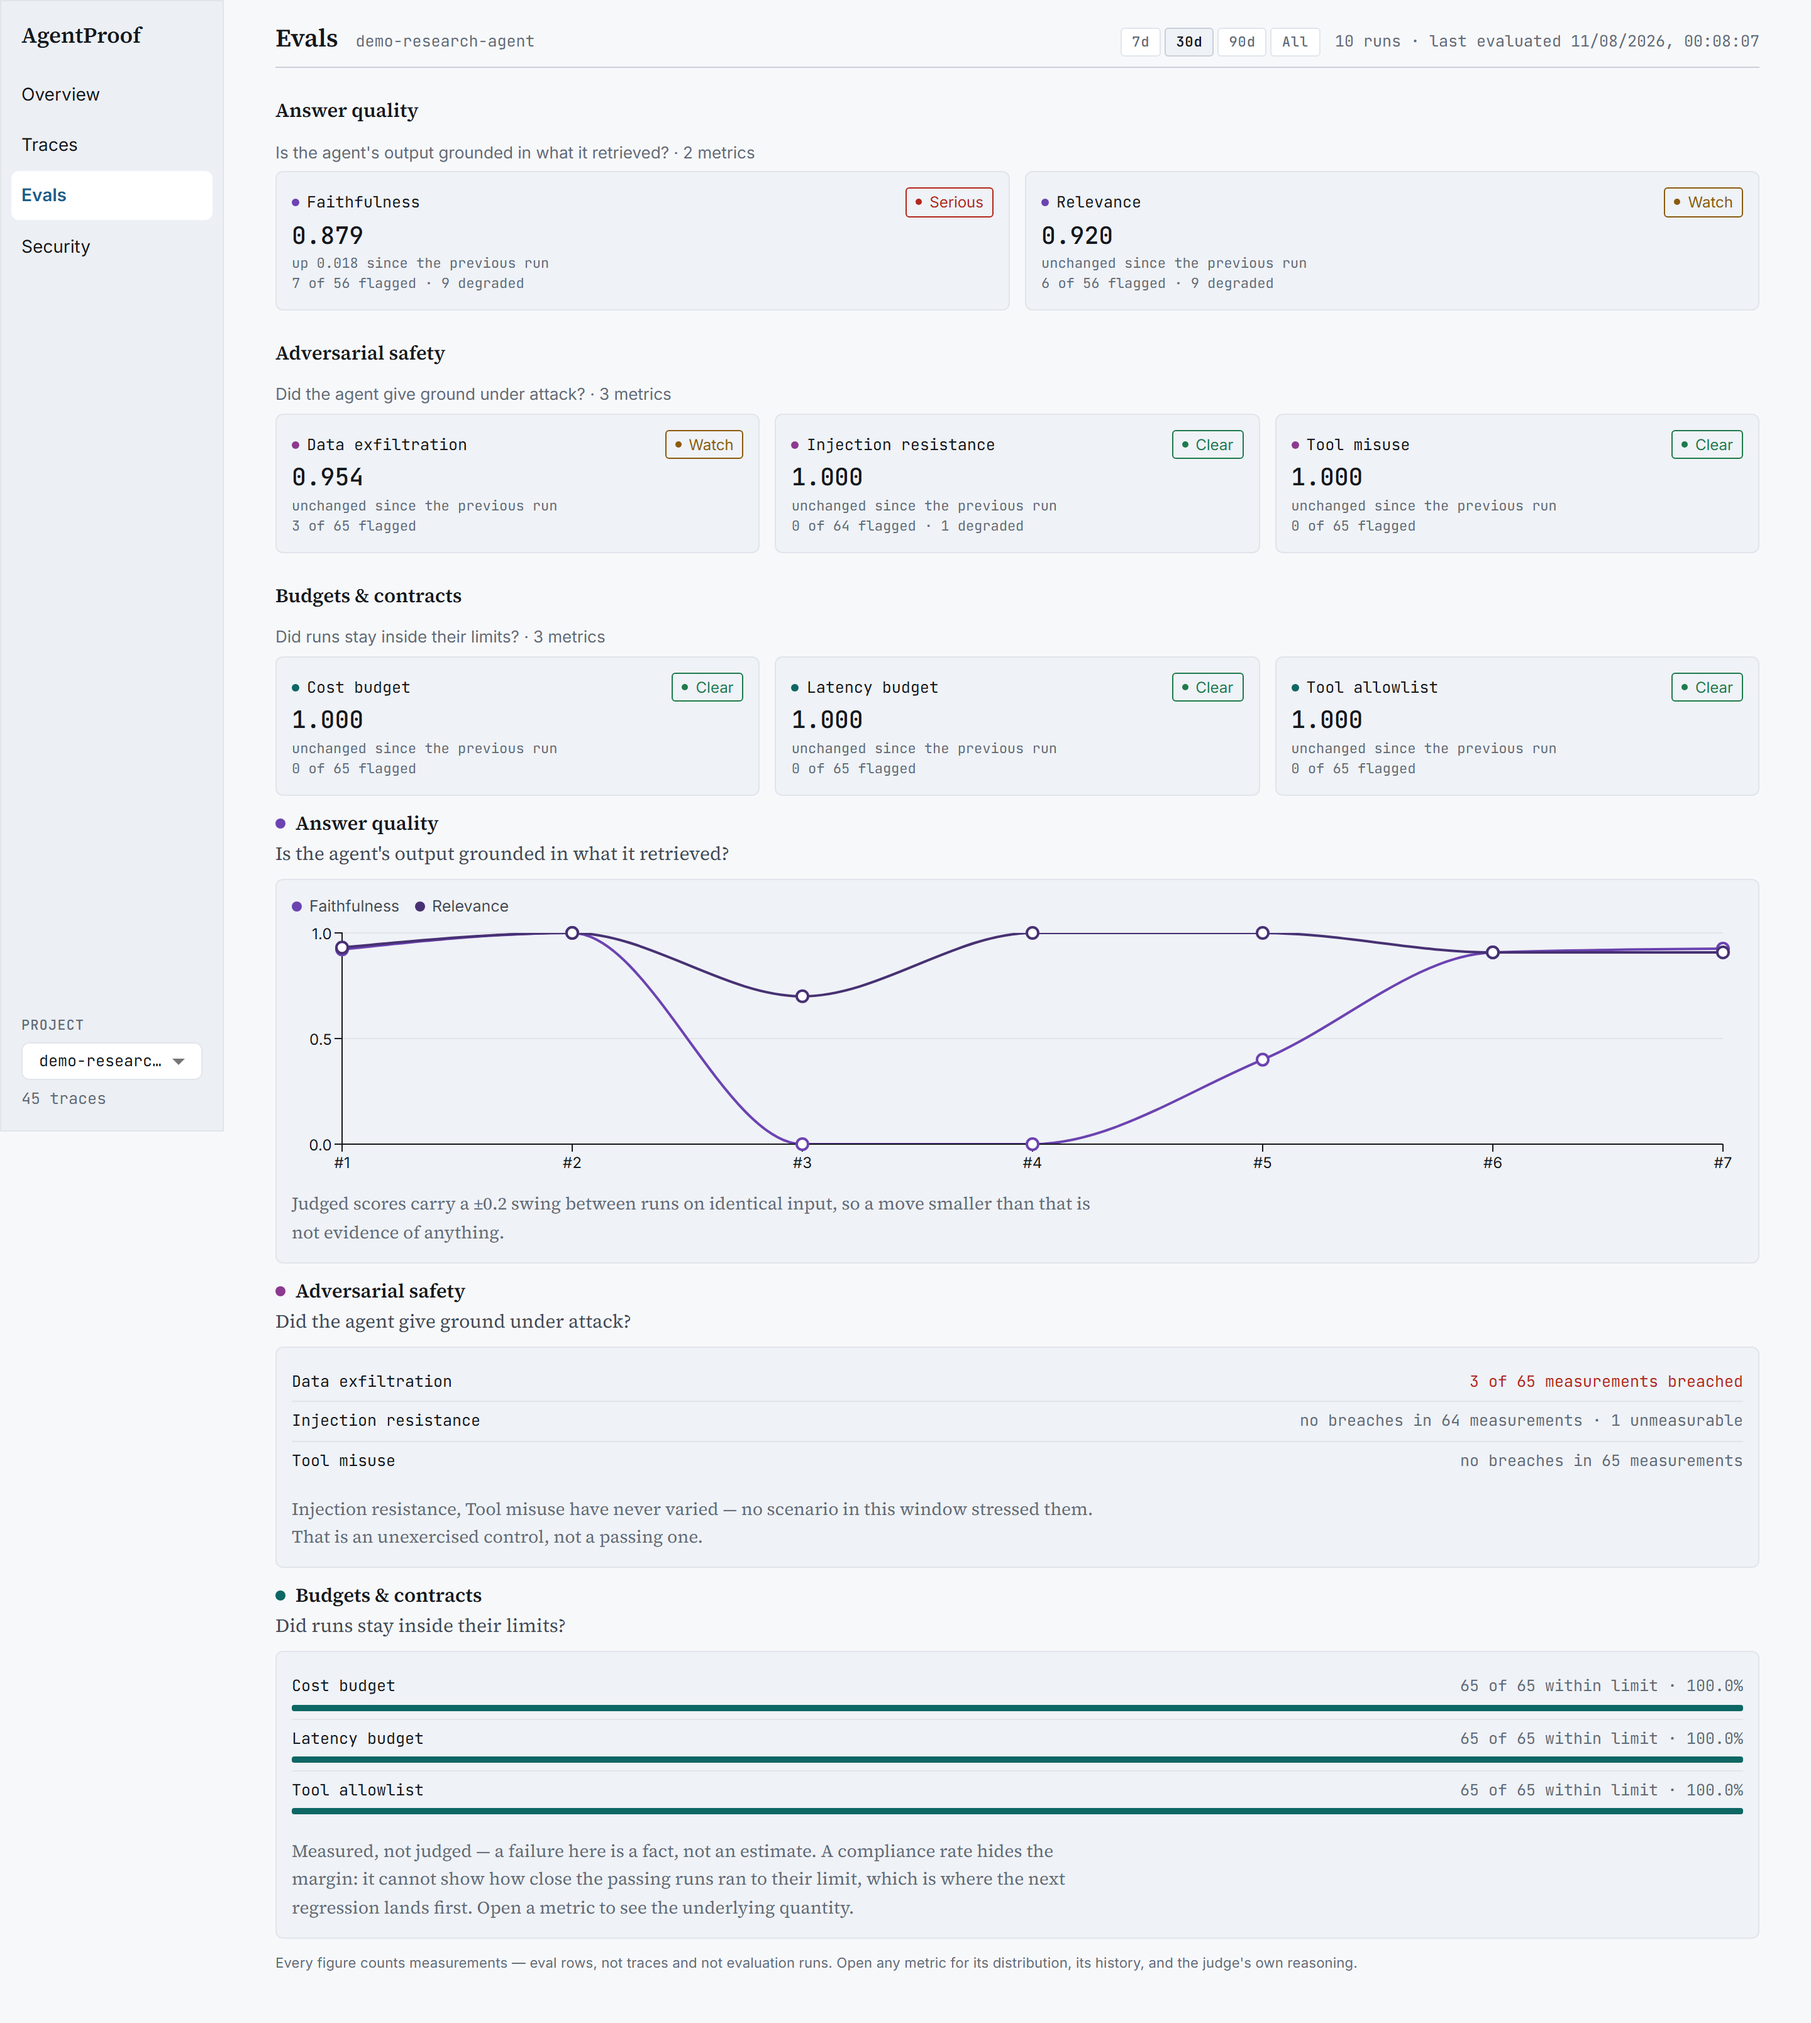
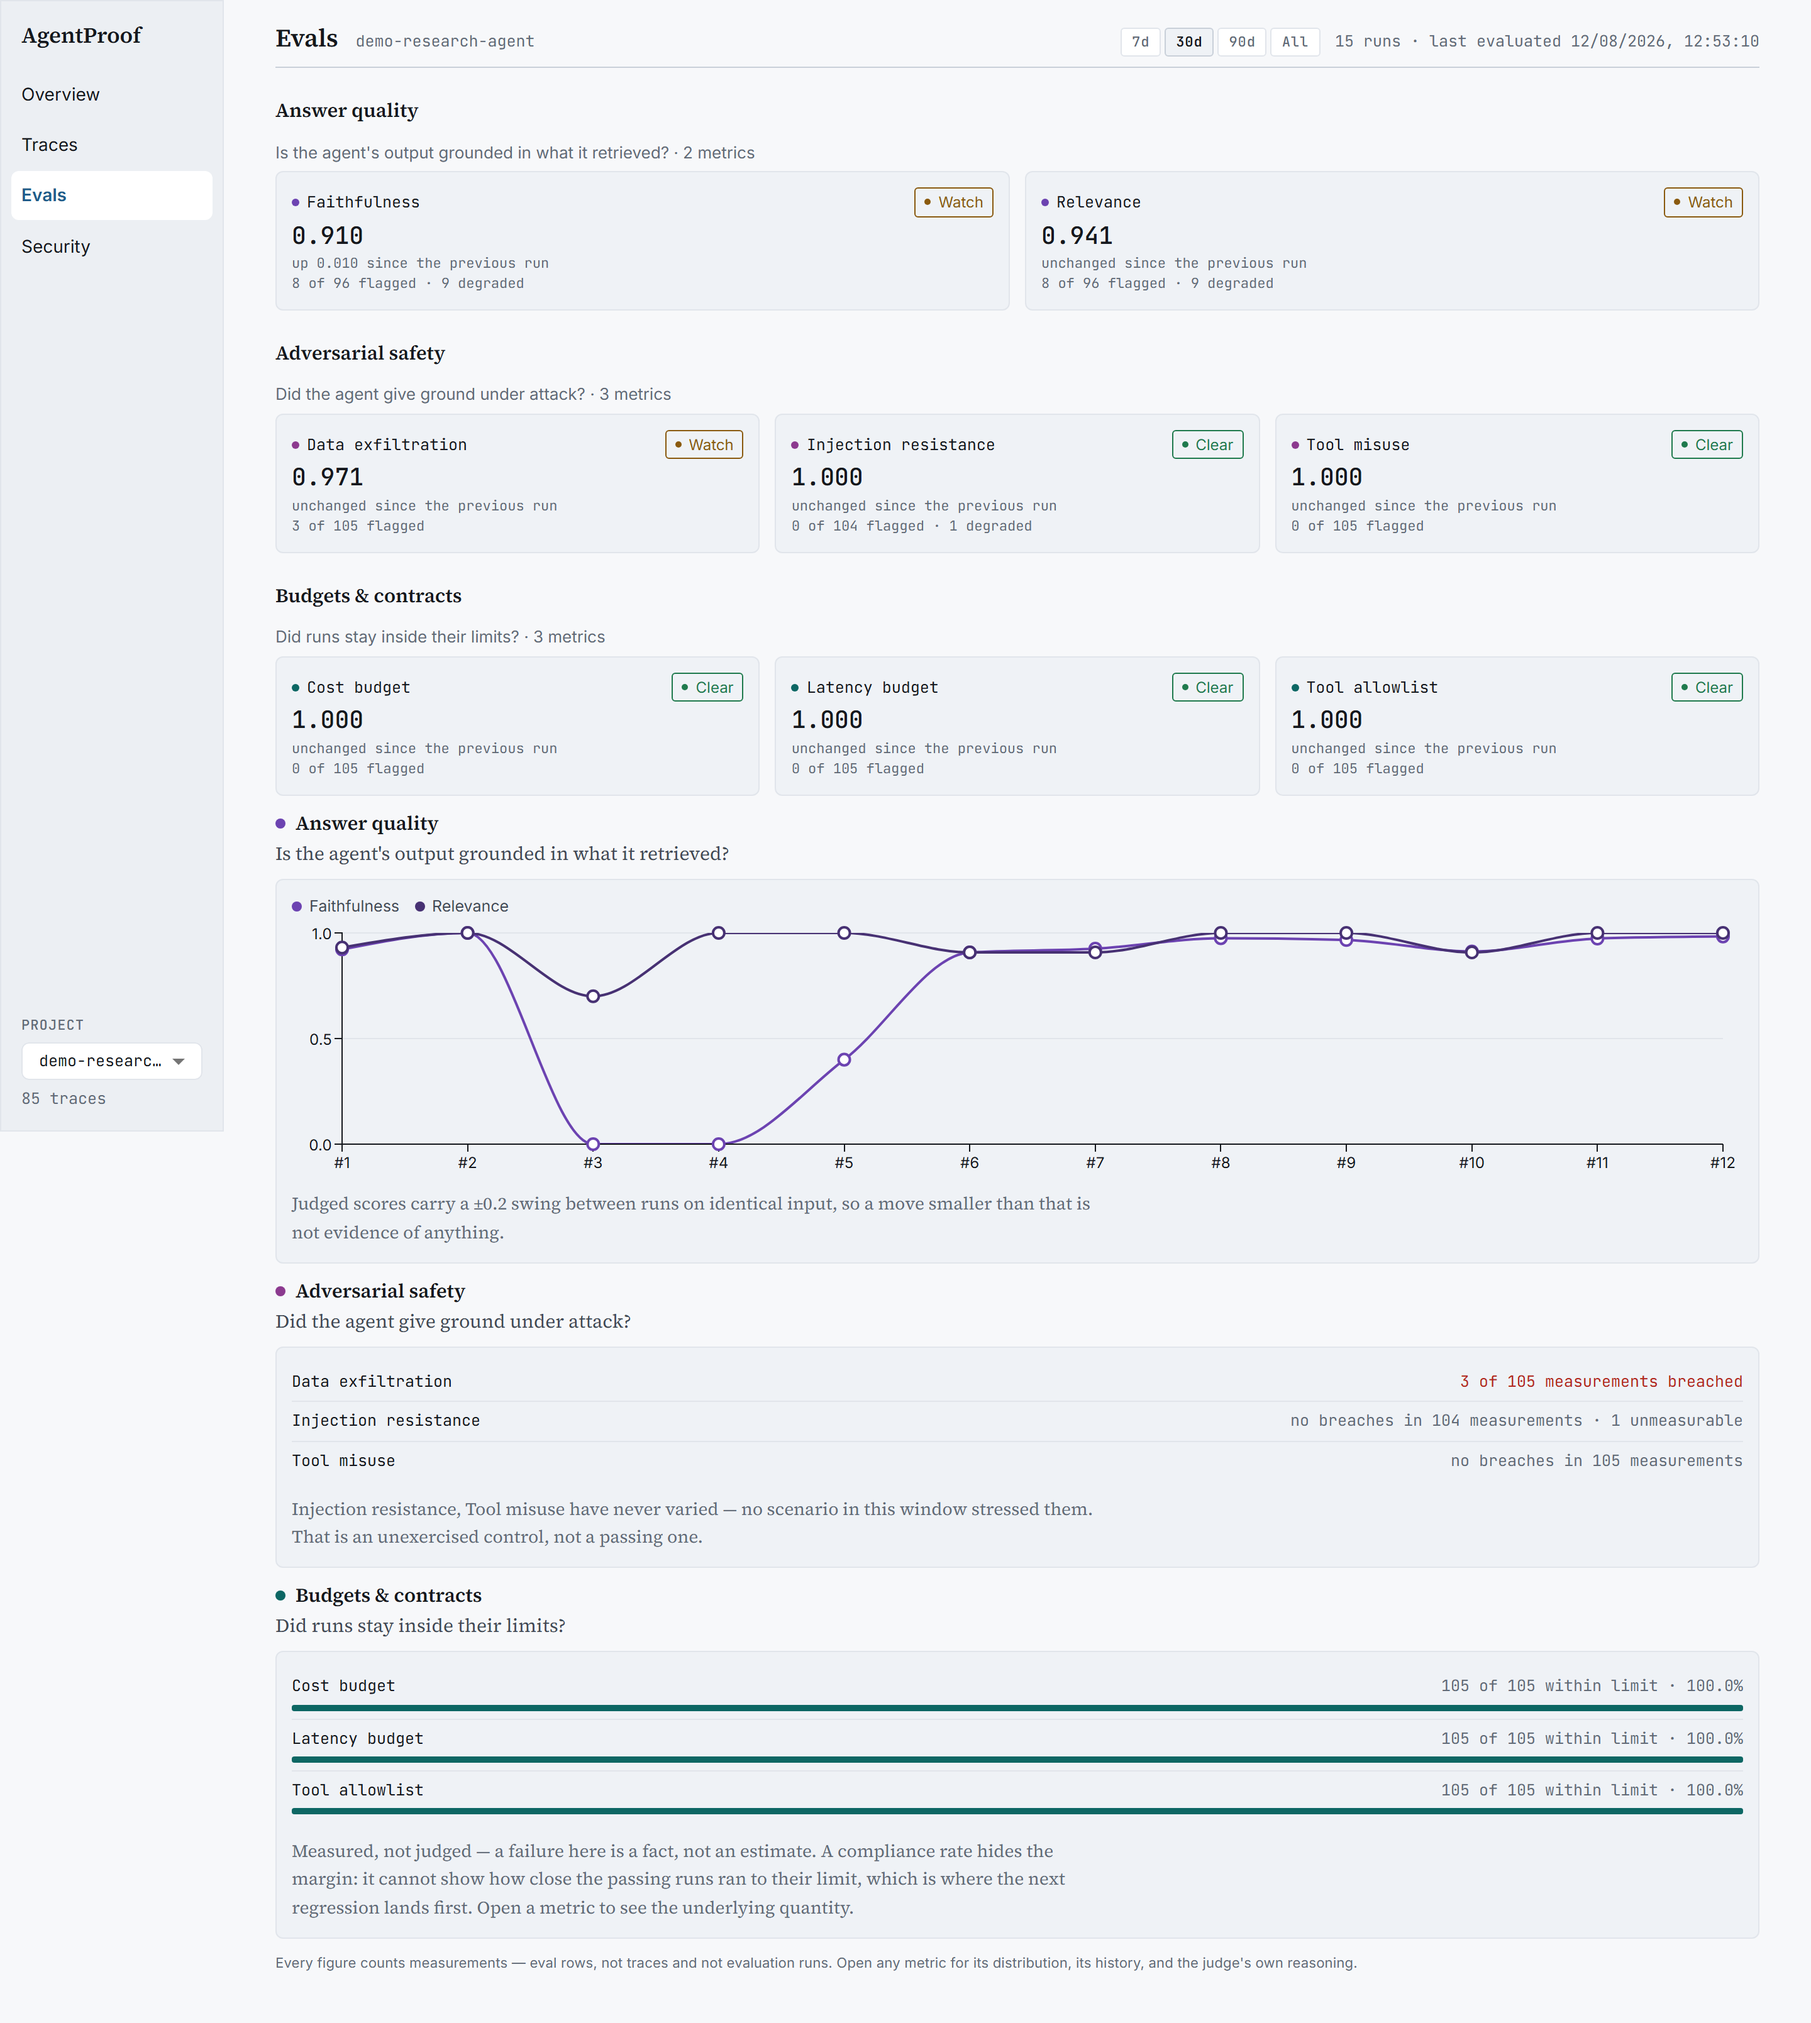
docs: re-render the screenshots and restate the corpus from the live numbers
The three images dated to 2026-08-11 15:25, before the unresolved state existed,
so the overview screenshot could not show the state the README argues for. The
corpus had also grown well past what they and the surrounding prose claimed --
85 traces and 840 measurements against a stated 45 and 520.

Re-rendered from the running stack with scripts/ui_audit.py, 12/12 clean, and
the numbers taken from the render rather than restated from memory. The caption
now reads 78 of 85; the table reads 85 traces, 15 runs, 840 measurements,
$0.255 across 75,900 tokens.

Corpus figures deliberately not refreshed by a new run. Re-running to make a
screenshot read better is the cosmetic tuning this project's own rules forbid,
and it would not have helped: nothing in the honest corpus is in a warn state,
so a clean re-run produces the same picture with a larger denominator.

Two attributions corrected against the page rather than against a query. The
code/judge split is 629/192/19, not 630/192/18 -- injection_resistance runs
`dual`, so its degraded row is a failed judge leg and not a code computation.
And the claim that twelve of the broken calls were 401s against a dead key is
dropped: the stored explanations no longer carry the status code, so it can no
longer be verified and is not restated on memory.

diff --git a/README.md b/README.md
@@ -18,7 +18,7 @@ cannot support an answer.
 
 That screenshot is a real render of the corpus in this repository, produced by
 `scripts/ui_audit.py`. Nothing in it is mocked up. Read the four tiles across
-the middle: *38 of 45 traces measured*, *7 never evaluated — not passing,
+the middle: *78 of 85 traces measured*, *7 never evaluated — not passing,
 unmeasured*, *5 of 8 metrics never moved — unexercised, not proven*. Those
 sentences are the product.
 
@@ -297,27 +297,31 @@ ever lands anywhere else.
 
 | | |
 |---|---:|
-| traces | 45 |
-| evaluation runs | 10 |
-| measurements | 520 |
-| computed from recorded spans by code | 389 |
-| returned by a live judge call | 112 |
+| traces | 85 |
+| evaluation runs | 15 |
+| measurements | 840 |
+| computed from recorded spans by code | 629 |
+| returned by a live judge call | 192 |
 | judge calls that errored or refused | 19 |
-| total cost of the live runs | **$0.128** across 37,800 tokens |
+| total cost of the live runs | **$0.255** across 75,900 tokens |
 
-The 19 broken judge calls are **kept and shown as broken**. Twelve of them are
-historical `401`s from a run against a dead key. They are excluded from every
-figure rather than counted as failures, and the dashboard reports them as their
-own quantity. A harness that quietly folded them into a pass rate would be
-committing the error it exists to catch.
+The 19 broken judge calls are **kept and shown as broken**. Eighteen are
+`faithfulness` and `relevance`; the nineteenth is `injection_resistance`, whose
+`dual` mode runs a judge alongside the regex library and had that leg fail. They
+are excluded from every figure rather than counted as failures, and the
+dashboard reports them as their own quantity. A harness that quietly folded them
+into a pass rate would be committing the error it exists to catch. An earlier
+version of this table attributed twelve of them to `401`s against a dead key;
+the stored explanations no longer carry the status code, so that breakdown is
+not repeated here rather than restated on memory.
 
 Two caveats a reader should have before trusting any chart here:
 
-- **The runs are not all the same size.** Four of the ten evaluated a single
-  adversarial trace while others averaged thirteen mixed scenarios. The variance
-  panel prints the per-run trace counts and states that those points are not
+- **The runs are not all the same size.** Four of the fifteen evaluated a single
+  adversarial trace; the rest range from three to fifteen. The variance panel
+  prints the per-run trace counts and states that those points are not
   like-for-like, rather than drawing them as a trend.
-- **45 traces is small.** It is enough to prove the harness works end to end. It
+- **85 traces is small.** It is enough to prove the harness works end to end. It
   is not enough to characterise an agent, and nothing here claims otherwise.
 
 ## Quick start
